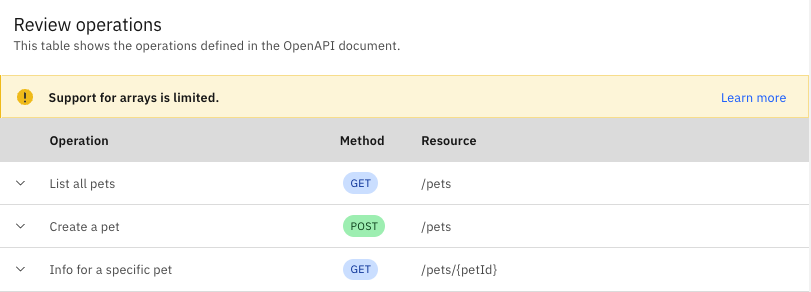
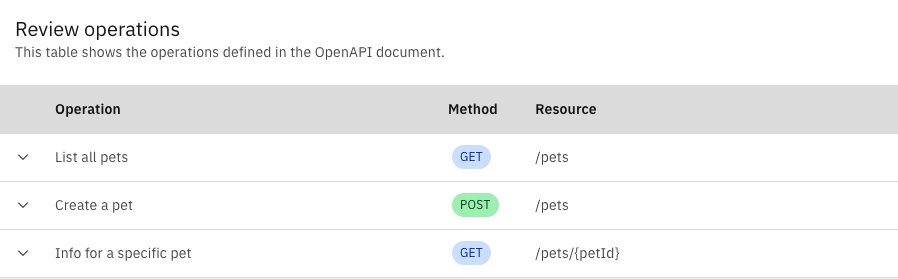
address review feedback

diff --git a/manage-info.md b/manage-info.md
@@ -2,7 +2,7 @@
 
 copyright:
   years: 2018, 2022
-lastupdated: "2022-08-18"
+lastupdated: "2022-08-19"
 
 subcollection: watson-assistant
 
@@ -76,13 +76,15 @@ To add a session variable that can be accessed by any action:
 
     As you add the name, an ID is generated for you. Any spaces in the name are replaced with underscores (_) in the ID.
 
-1. **Optional**: Add a type. This sets the response type of the variable. (For more information about response types, see [Choosing a response type](/docs/watson-assistant?topic=watson-assistant-collect-info#choosing-a-response-type).) If you do not select a type, the variable will be treated as a string by default.
+1. **Optional**: Add a type. This sets the response type of the variable. (For more information about response types, see [Choosing a response type](/docs/watson-assistant?topic=watson-assistant-collect-info#choosing-a-response-type).)
 
     From this field, you can also select any of the saved responses that you created. For more information about saved responses, see [Saving and reusing customer responses](/docs/watson-assistant?topic=watson-assistant-collect-info#saved-customer-responses).
 
-    In addition to the listed types, a variable can also be created as an array. To create an array variable, select **Any** as the type, and define an initial value using the expression `[]` to represent an empty array. (For more information about writing expression, see [Writing expressions](/docs/watson-assistant?topic=watson-assistant-expressions).)
+    In addition to the listed types, a variable can also be created as an array. To create an array variable, select **Any** as the type, and in the next step, define an initial value using the expression `[]` to represent an empty array.
 
 1. **Optional**: Add an initial value. This sets the starting value for the variable at the beginning of each user session. For example, suppose you have an assistant your customers can use to make purchases; you might initialize a *Payment due* variable with a starting value of 0, and then add to that value as the customer orders items.
+
+    To specify a complex object or an array as the initial value, or to calculate the initial value based on other variables, you can write an expression. For more information about writing expression, see [Writing expressions](/docs/watson-assistant?topic=watson-assistant-expressions).)
 
 1. **Optional**: Add a description.
 

diff --git a/add-custom-extension.md b/add-custom-extension.md
@@ -2,7 +2,7 @@
 
 copyright:
   years: 2022
-lastupdated: "2022-08-17"
+lastupdated: "2022-08-19"
 
 subcollection: watson-assistant
 
@@ -67,11 +67,11 @@ To add a custom extension to the assistant, follow these steps:
 
      Click **Next**.
 
-1. In the **Manage operations** step, review the operations supported by the extension and decide which operations you want to make available.
+1. In the **Review extension** step, review the operations supported by the extension.
 
-    The **Manage operations** table shows the operations that the assistant will be able to call from an action step. An _operation_ is a request using a particular HTTP method, such as `GET` or `POST`, on a particular resource.
+    The **Review operations** table shows the operations that the assistant will be able to call from an action step. An _operation_ is a request using a particular HTTP method, such as `GET` or `POST`, on a particular resource.
 
-    ![Manage operations table](images/extension-manage-operations.png)
+    ![Review operations table](images/extension-review-operations.png)
 
     For each operation, a row in the table shows the following information:
 

diff --git a/expressions.md b/expressions.md
@@ -2,7 +2,7 @@
 
 copyright:
   years: 2018, 2022
-lastupdated: "2022-08-11"
+lastupdated: "2022-08-19"
 
 subcollection: watson-assistant
 
@@ -87,7 +87,7 @@ To use an expression when assigning a value to a session variable, follow these 
 
 1. From the drop-down list, select the session variable you want to store the value in.
 
-1. Select **Expression**.
+1. After **to**, select **Expression**.
 
 1. **Optional:** Click the ![Expand icon](images/expression-editor-icon.png) **Expand** icon to open the expression editor window. (You can also type the expression directly in the field without opening the window, but the editor makes it easier to edit a longer or more complex expression.)
 
